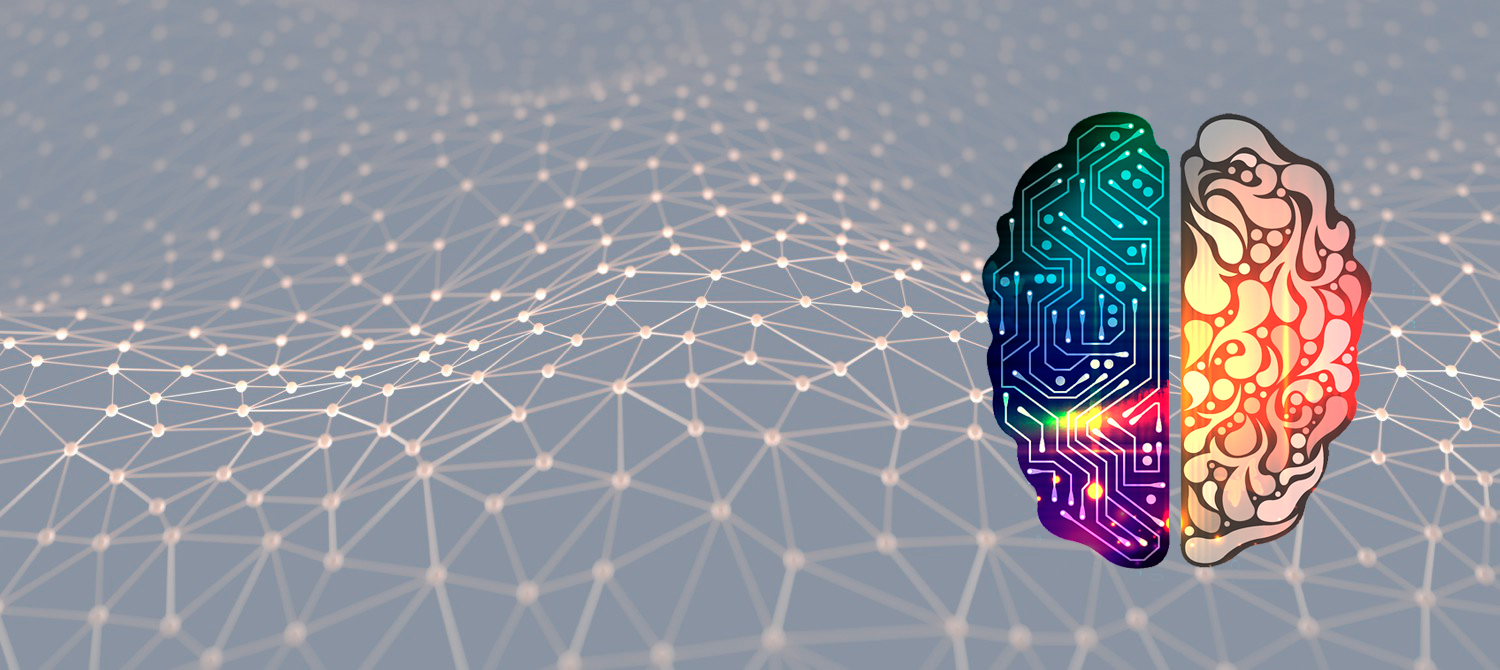
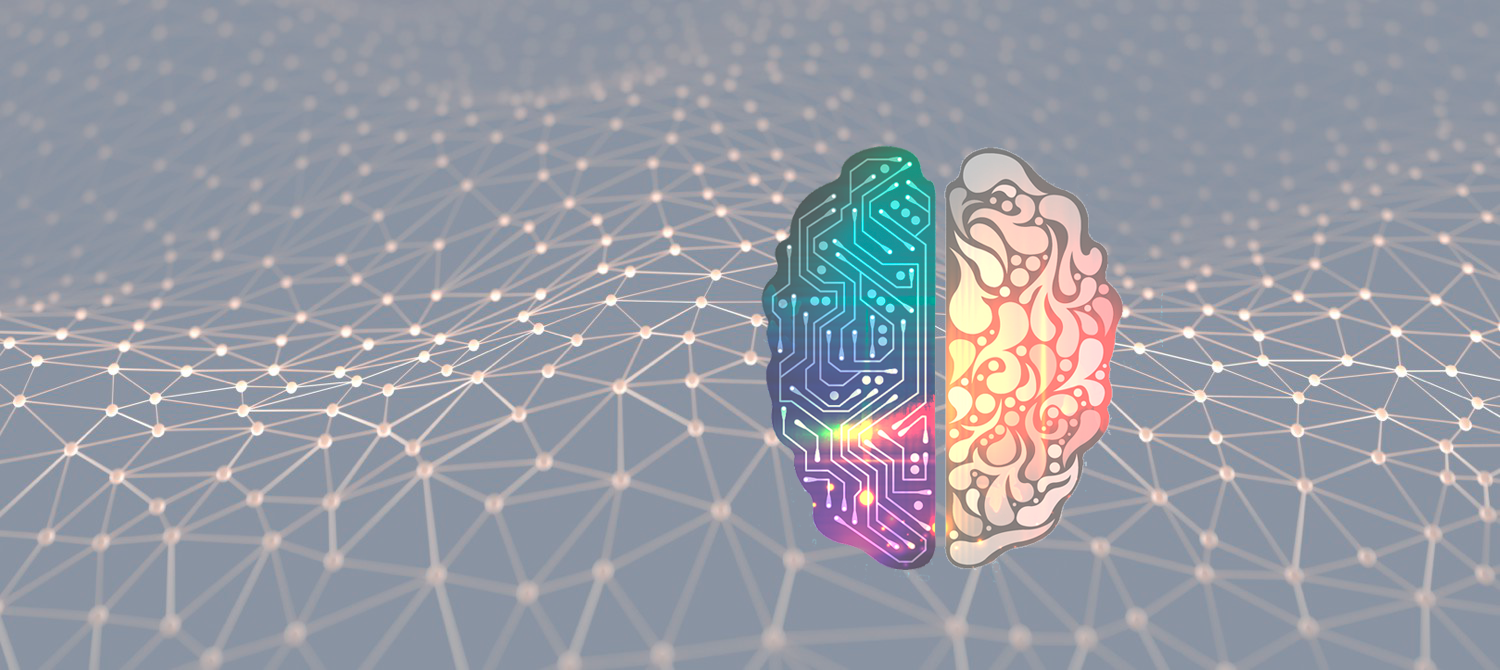
form, page scroll, fotos

Changed region(s): [[0.4907, 0.1493, 0.92, 0.8657]]

diff --git a/src/app/form/form.component.html b/src/app/form/form.component.html
@@ -1,0 +1,26 @@
+<div class="text-center contact-form">
+    <div class="container">
+      <div class="col-md-5">
+        <div class="form-area contact-form__area"> 
+          <form role="form">
+            <div class="form-group">
+                    <input type="text" class="form-control" id="name" name="name" placeholder="Name" [(ngModel)]="name" required>
+            </div>
+            <div class="form-group">
+                    <input type="email" class="form-control" id="email" name="email" placeholder="Email" [(ngModel)]="email" required>
+            </div>
+            <div class="form-group">
+                    <input type="phone" class="form-control" id="mobile" name="mobile" placeholder="Mobile Number" [(ngModel)]="mobile" required>
+            </div>
+            <div class="form-group">
+                    <input type="text" class="form-control" id="subject" name="subject" placeholder="Subject" [(ngModel)]="subject" required>
+            </div>
+            <div class="form-group">
+                    <textarea class="form-control" type="textarea" id="message" name="message" placeholder="Message" [(ngModel)]="message" maxlength="140" rows="7"></textarea>              
+            </div>
+            <button type="button" id="submit" name="submit" class="btn btn-dark pull-right" (click)="save(name, email, mobile, subject, message)">Submit Form</button>
+          </form>
+        </div>
+      </div>
+    </div>
+  </div>

diff --git a/src/app/app.module.ts b/src/app/app.module.ts
@@ -1,5 +1,8 @@
 import { BrowserModule } from '@angular/platform-browser';
 import { NgModule } from '@angular/core';
+import { FormsModule } from '@angular/forms';
+
+import {NgxPageScrollModule} from 'ngx-page-scroll';
 
 import { AppComponent } from './app.component';
 import { HeaderComponent } from './header/header.component';
@@ -8,7 +11,9 @@ import { CoverComponent } from './cover/cover.component';
 import { AboutComponent } from './about/about.component';
 import { CollapseComponent } from './collapse/collapse.component';
 import { PortfolioComponent } from './portfolio/portfolio.component';
-
+import { ContactComponent } from './contact/contact.component';
+import { FormComponent } from './form/form.component';
+import { FooterComponent } from './footer/footer.component';
 @NgModule({
   declarations: [
     AppComponent,
@@ -16,12 +21,17 @@ import { PortfolioComponent } from './portfolio/portfolio.component';
     CoverComponent,
     AboutComponent,
     CollapseComponent,
-    PortfolioComponent
+    PortfolioComponent,
+    ContactComponent,
+    FormComponent,
+    FooterComponent
   ],
   imports: [
     BrowserModule,
     BsDropdownModule,
-    CollapseModule.forRoot()
+    CollapseModule.forRoot(),
+    FormsModule,
+    NgxPageScrollModule
   ],
   providers: [],
   bootstrap: [AppComponent]

diff --git a/src/app/cover/cover.component.scss b/src/app/cover/cover.component.scss
@@ -1,21 +1,17 @@
 .cover {
     background-size: cover;
-    position: relative;
-    
-    img {
-        width: 100%;
-        height: 640px;
-    }
+    background-image: url('/assets/images/neural-network.jpg');
+    width: 100%;
+    height: 600px;
+    display: flex;
+    align-items: center;
+    justify-content: center;
+
 
     .cover-box {
-        border: 2px solid white; 
-        position: absolute;
         width: auto;
-        height: auto;
-        top: 15%;
         text-align: center;
-        left: 14%;
-        padding: 20px 10px 0px 10px;
+        margin: 0;
         
         .cover-box__txt {  
             color: white;
@@ -43,10 +39,6 @@
     .cover {
 
         .cover-box {
-            top: 10%;
-            left: 11%;
-            border: 7px solid white;
-            padding: 35px 35px 10px 35px;
             
             .cover-box__txt {
                 line-height: 60px;
@@ -73,8 +65,6 @@
     .cover {
 
         .cover-box {
-            top: 20%;
-            left: 26%;
             
             .cover-box__txt {
                 line-height: 60px;

diff --git a/src/app/header/header.component.html b/src/app/header/header.component.html
@@ -4,10 +4,10 @@
 
     <div class="collapse navbar-collapse" id="navbarNavAltMarkup">
         <div class="navbar-nav text-right">
-          <a class="nav-item nav-link active" href="#">Home<span class="sr-only">(current)</span></a>
-          <a class="nav-item nav-link" href="#about">About</a>
-          <a class="nav-item nav-link" href="#portfolio">Portfolio</a>
-          <a class="nav-item nav-link" href="#contat">Contact</a>
+          <a class="nav-item nav-link active" pageScroll href="#cover">Home<span class="sr-only">(current)</span></a>
+          <a class="nav-item nav-link" pageScroll href="#about">About</a>
+          <a class="nav-item nav-link" pageScroll href="#portfolio">Portfolio</a>
+          <a class="nav-item nav-link" pageScroll href="#contact">Contact</a>
         </div>
       </div>
   <div class="nav social-icons justify-content-end">

diff --git a/src/app/contact/contact.component.spec.ts b/src/app/contact/contact.component.spec.ts
@@ -1,0 +1,25 @@
+import { async, ComponentFixture, TestBed } from '@angular/core/testing';
+
+import { ContactComponent } from './contact.component';
+
+describe('ContactComponent', () => {
+  let component: ContactComponent;
+  let fixture: ComponentFixture<ContactComponent>;
+
+  beforeEach(async(() => {
+    TestBed.configureTestingModule({
+      declarations: [ ContactComponent ]
+    })
+    .compileComponents();
+  }));
+
+  beforeEach(() => {
+    fixture = TestBed.createComponent(ContactComponent);
+    component = fixture.componentInstance;
+    fixture.detectChanges();
+  });
+
+  it('should create', () => {
+    expect(component).toBeTruthy();
+  });
+});

diff --git a/src/app/footer/footer.component.spec.ts b/src/app/footer/footer.component.spec.ts
@@ -1,0 +1,25 @@
+import { async, ComponentFixture, TestBed } from '@angular/core/testing';
+
+import { FooterComponent } from './footer.component';
+
+describe('FooterComponent', () => {
+  let component: FooterComponent;
+  let fixture: ComponentFixture<FooterComponent>;
+
+  beforeEach(async(() => {
+    TestBed.configureTestingModule({
+      declarations: [ FooterComponent ]
+    })
+    .compileComponents();
+  }));
+
+  beforeEach(() => {
+    fixture = TestBed.createComponent(FooterComponent);
+    component = fixture.componentInstance;
+    fixture.detectChanges();
+  });
+
+  it('should create', () => {
+    expect(component).toBeTruthy();
+  });
+});

diff --git a/src/app/form/form.component.spec.ts b/src/app/form/form.component.spec.ts
@@ -1,0 +1,25 @@
+import { async, ComponentFixture, TestBed } from '@angular/core/testing';
+
+import { FormComponent } from './form.component';
+
+describe('FormComponent', () => {
+  let component: FormComponent;
+  let fixture: ComponentFixture<FormComponent>;
+
+  beforeEach(async(() => {
+    TestBed.configureTestingModule({
+      declarations: [ FormComponent ]
+    })
+    .compileComponents();
+  }));
+
+  beforeEach(() => {
+    fixture = TestBed.createComponent(FormComponent);
+    component = fixture.componentInstance;
+    fixture.detectChanges();
+  });
+
+  it('should create', () => {
+    expect(component).toBeTruthy();
+  });
+});

diff --git a/src/app/contact/contact.component.scss b/src/app/contact/contact.component.scss
@@ -1,15 +1,17 @@
 @import '../../variables';
 
-.portfolio {
+.contact {
     height: auto;
     padding: 50px;
-    background-color: $orange;
+    background-image: url('/assets/images/brain-neural.png');
 
-    h2 {
-        color: white;
-        text-transform: uppercase;
-        font-weight: 700;
-    }
+
+        h2 {
+            color: white;
+            text-transform: uppercase;
+            font-weight: 700;
+        }
+
 
     .card-deck {
         margin-top: 30px;
@@ -18,7 +20,7 @@
 
 @media (min-width: 998px) {
 
-    .portfolio {
+    .contact {
     
         h2 {
             font-size: 40px;

diff --git a/src/app/contact/contact.component.ts b/src/app/contact/contact.component.ts
@@ -1,0 +1,15 @@
+import { Component, OnInit } from '@angular/core';
+
+@Component({
+  selector: 'app-contact',
+  templateUrl: './contact.component.html',
+  styleUrls: ['./contact.component.scss']
+})
+export class ContactComponent implements OnInit {
+
+  constructor() { }
+
+  ngOnInit() {
+  }
+
+}

diff --git a/src/app/footer/footer.component.ts b/src/app/footer/footer.component.ts
@@ -1,0 +1,15 @@
+import { Component, OnInit } from '@angular/core';
+
+@Component({
+  selector: 'app-footer',
+  templateUrl: './footer.component.html',
+  styleUrls: ['./footer.component.scss']
+})
+export class FooterComponent implements OnInit {
+
+  constructor() { }
+
+  ngOnInit() {
+  }
+
+}

diff --git a/src/app/form/form.component.ts b/src/app/form/form.component.ts
@@ -1,0 +1,15 @@
+import { Component, OnInit } from '@angular/core';
+
+@Component({
+  selector: 'app-form',
+  templateUrl: './form.component.html',
+  styleUrls: ['./form.component.scss']
+})
+export class FormComponent implements OnInit {
+
+  constructor() { }
+
+  ngOnInit() {
+  }
+
+}

diff --git a/src/app/cover/cover.component.ts b/src/app/cover/cover.component.ts
@@ -6,7 +6,6 @@ import { Component, OnInit } from '@angular/core';
   styleUrls: ['./cover.component.scss']
 })
 export class CoverComponent implements OnInit {
-  image = './assets/images/neural-network.jpg ';
 
   constructor() { }
 
